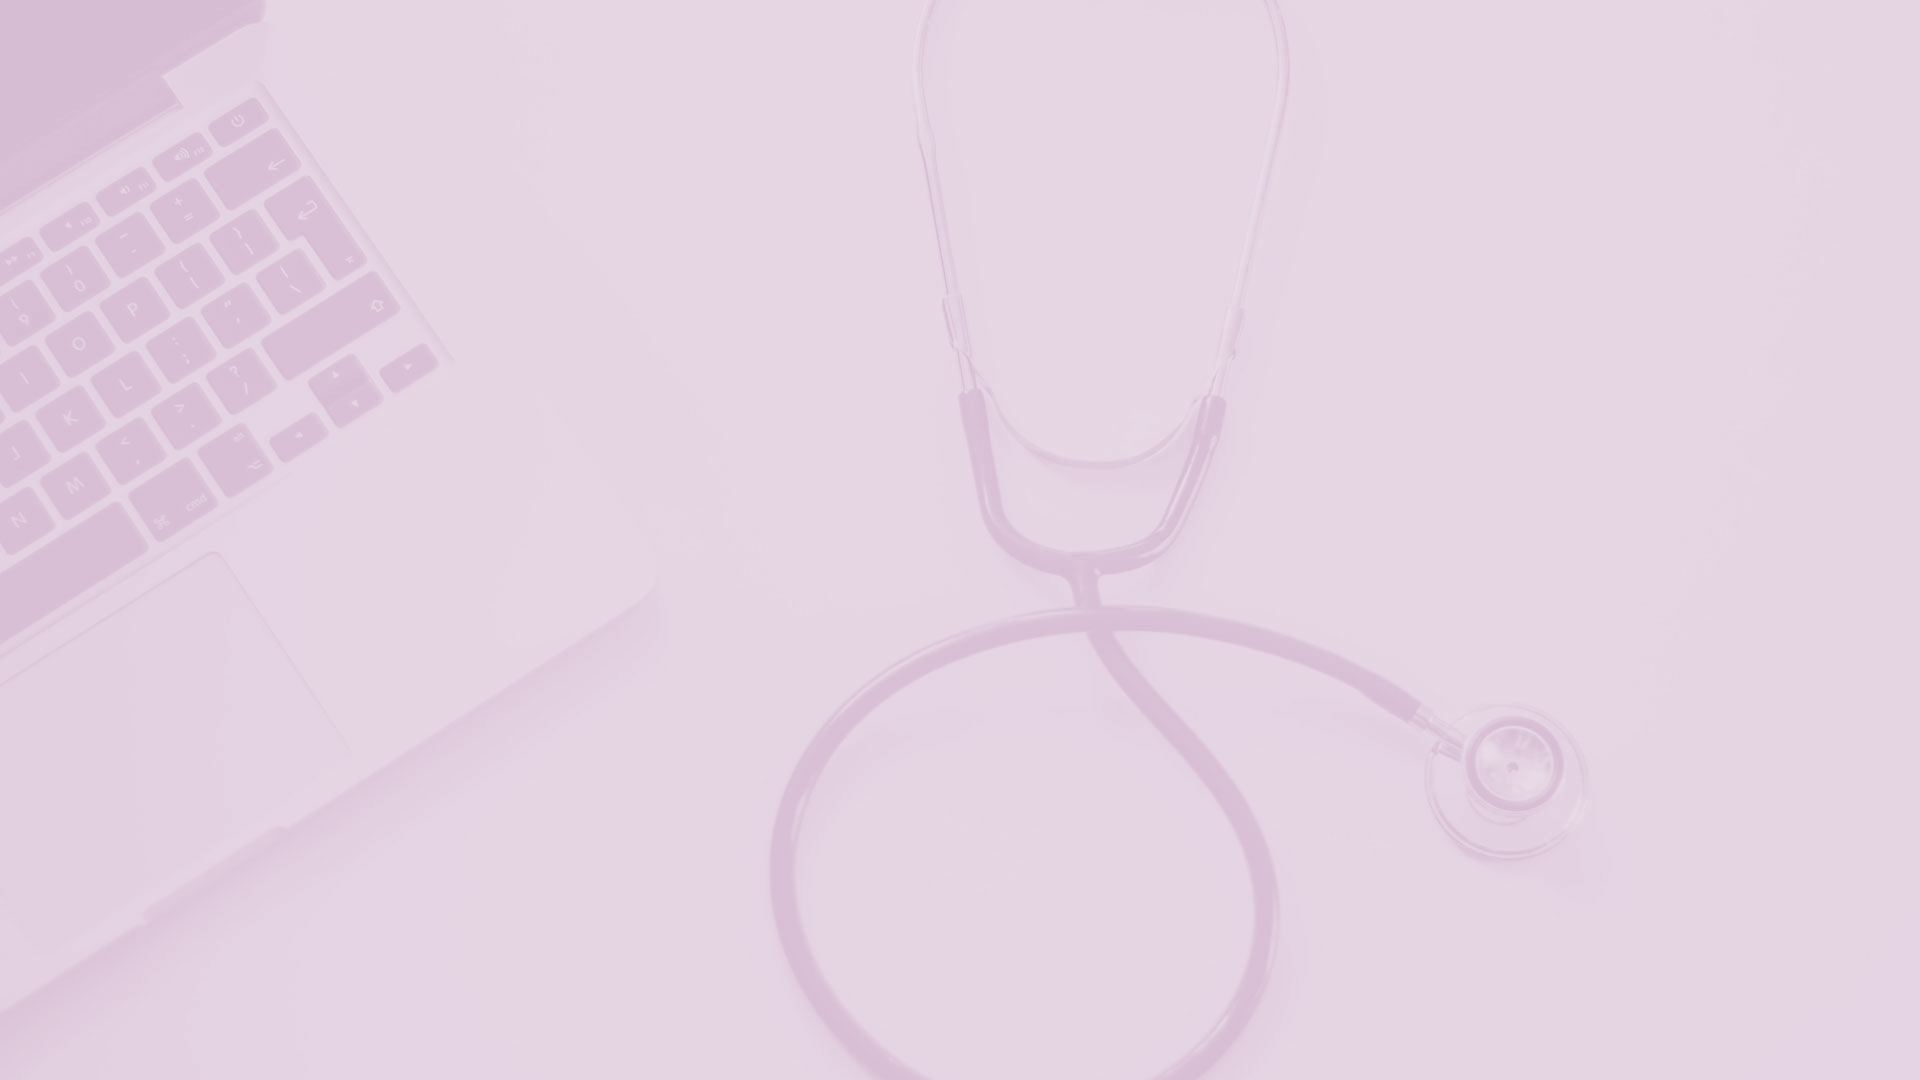
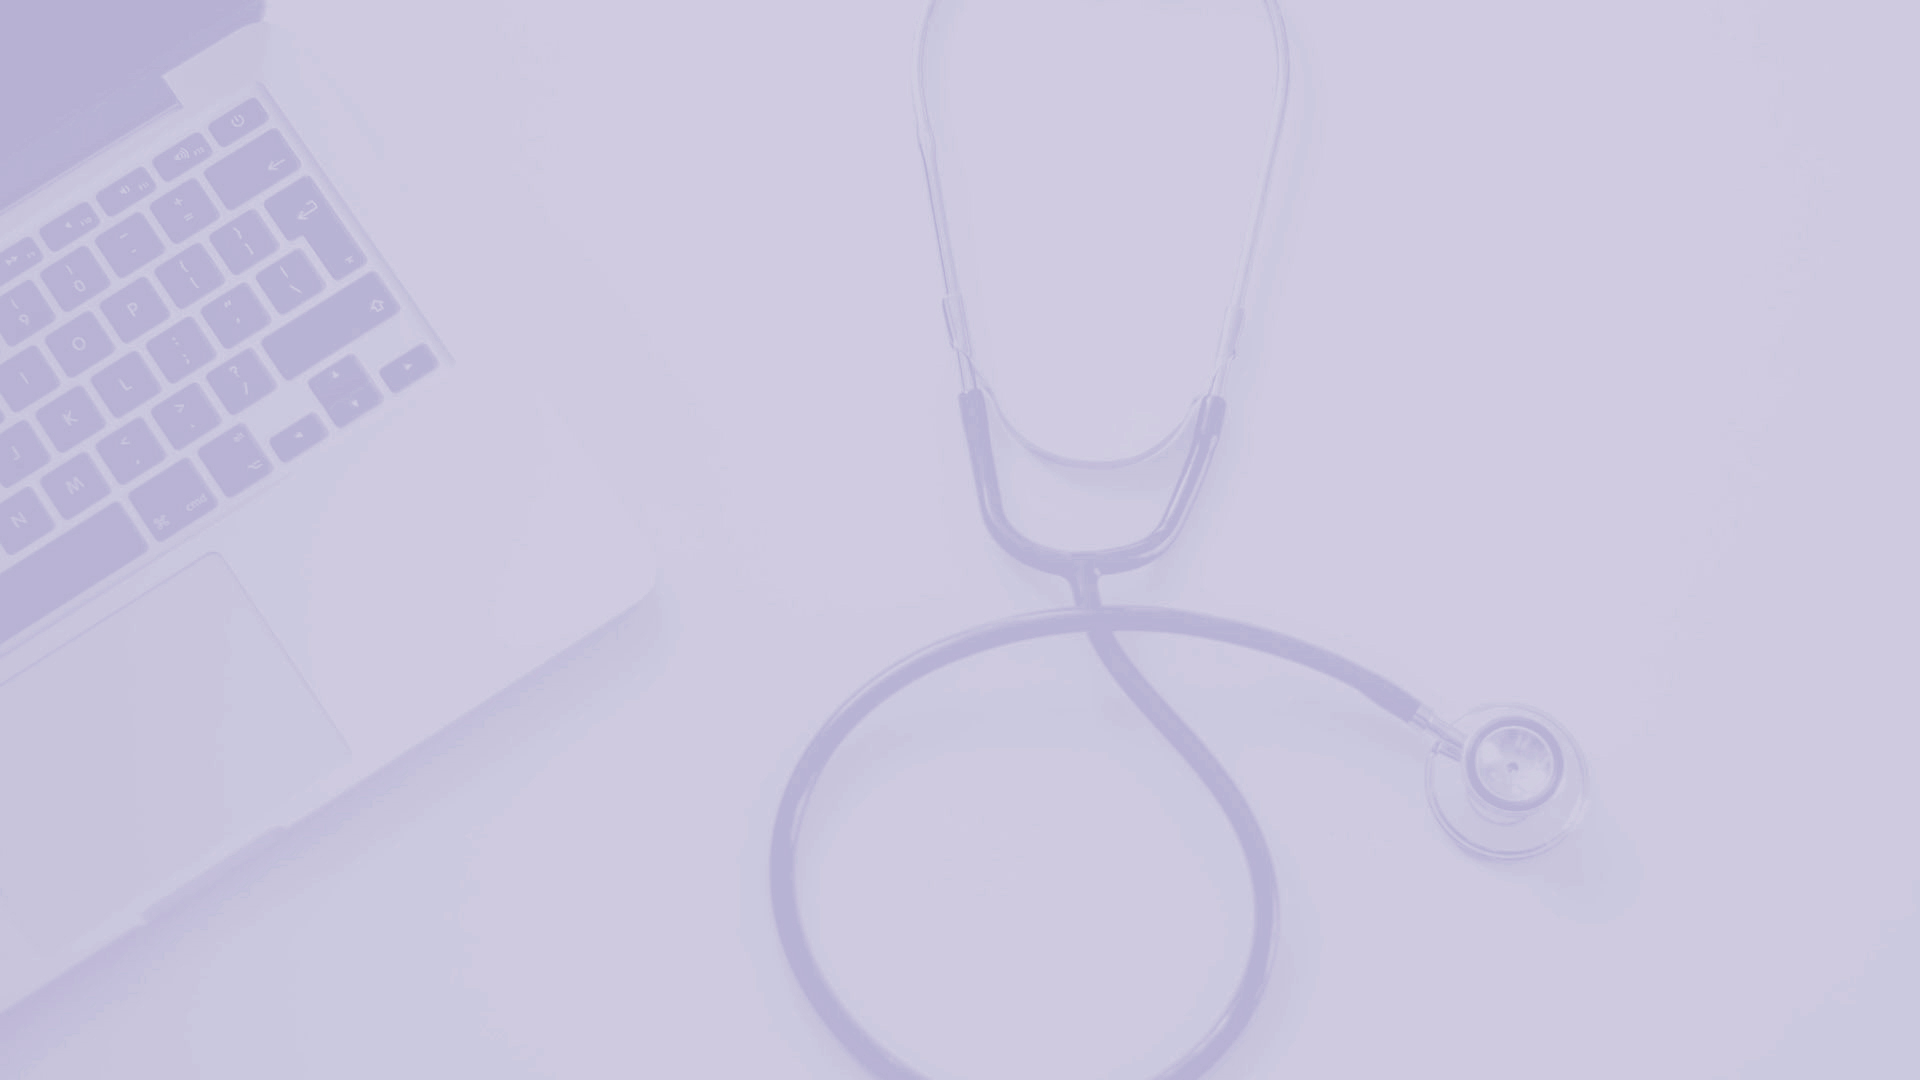
update color

diff --git a/style.css b/style.css
@@ -80,7 +80,7 @@ nav {
 }
 
 .secoes li:hover {
-	background-color: #975c90;
+	background-color: #68518c;
 	color: white;
 	cursor: pointer;
 }
@@ -132,7 +132,7 @@ nav {
 
 .dresteban {
 	min-height: 100vh;
-	background-color: #decada;
+	background-color: #cabfde;
 	padding: 5vh 5vw;
 	padding-top: 17vh;
 	display: flex;
@@ -150,7 +150,7 @@ nav {
 
 .bio h1 {
 	margin: 0 0 4vh 0;
-	color: #975c90;
+	color: #68518c;
 	font-size: 2.5em;
 	text-transform: uppercase;
 }
@@ -175,7 +175,7 @@ nav {
 }
 
 .titulo {
-	color: #975c90;
+	color: #68518c;
 	font-size: 2.5em;
 	display: flex;
 	margin: 0;
@@ -213,7 +213,7 @@ nav {
 
 /* Consultório */
 .consultorio {
-	background-color: #decada;
+	background-color: #cabfde;
 	padding-top: 7vh;
 	width: 100%;
 	text-align: center;
@@ -254,7 +254,7 @@ nav {
 	width: 100%;
 	height: 1em;
 	margin-bottom: 5vh;
-	color: #975c90;
+	color: #68518c;
 }
 
 .art-menu {
@@ -279,7 +279,7 @@ nav {
 }
 
 .art-menu li:hover {
-	color: #975c90;
+	color: #68518c;
 	text-decoration: underline;
 }
 
@@ -294,11 +294,11 @@ article {
 
 article h1 {
 	margin-top: 0;
-	color: #975c90;
+	color: #68518c;
 }
 
 article a {
-	color: #975c90;
+	color: #68518c;
 }
 
 article a:hover {
@@ -326,7 +326,7 @@ article a:hover {
 
 .contato-info h1 {
 	margin: 0;
-	color: #975c90;
+	color: #68518c;
 }
 
 .contato-info p {
